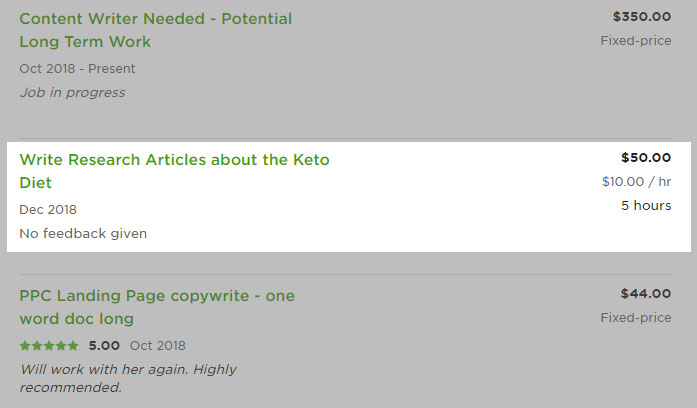
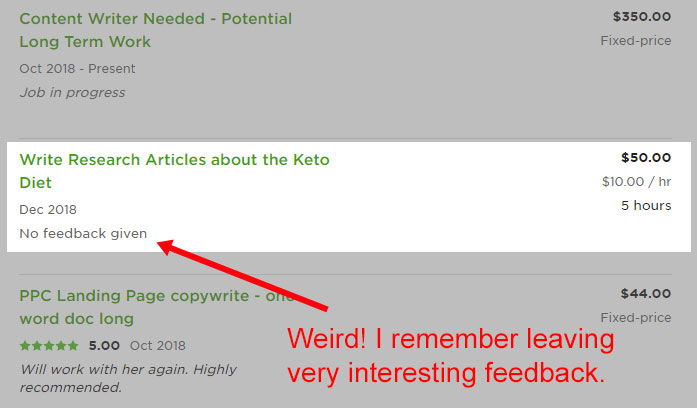
Update

diff --git a/_posts/2018-12-11-upwork-scammer.md b/_posts/2018-12-11-upwork-scammer.md
@@ -11,83 +11,87 @@ sidebar:
 classes: wide
 ---
 
-For years, I've hired freelancers through a marketplace called Upwork. I used the site to find cartoonists, software developers, editors, and virtual assistants. Some were great, some were disastrous, but I'd never had someone who was outright trying to scam me.
+For years, I've hired freelancers through a site called Upwork. The site attracts all kinds of freelancers, so I've used it to find evertyhing from [cartoonists](https://mtlynch.io/how-to-hire-a-cartoonist/) to software developers to [copy editors](https://mtlynch.io/editor/). Some were great, some were disastrous, but none of them had ever tried to scam me outright.
 
 That is, until I met Lizzie.
 
 {% include image.html file="lizzie-r-profile.png" alt="Screenshot of Lizzie R's Upwork profile page" max_width="450px" img_link="true" fig_caption="Lizzie's freelancer profile on Upwork" %}
 
-I needed writers for [a nutrition website](https://isitketo.org) I'm working on. Lizzie seemed like a potential match. She was a young American writer &mdash; a native English speaker. Her [bio](https://www.upwork.com/o/profiles/users/_~019b8bbe4e49ebe61c/) was free of loud grammar errors, an alarmingly rare quality among freelance writers. And best of all, she only charged $10/hr.
+I needed writers for a [keto diet website](https://isitketo.org) I'm building. As a native English speaker living in the US, Lizzie seemed like a potential match.  [Her profile](https://www.upwork.com/o/profiles/users/_~019b8bbe4e49ebe61c/) was free of loud grammatical errors, an alarmingly rare quality among freelance writers. And best of all, she only charged $10/hr.
 
-Okay, I know what you're thinking: for $10/hr, she's *obviously* a scammer. Or, at the very least, a terrible writer. A mid-range writer on Upwork typically charges $30-60/hr.
+Okay, I know what you're thinking: for $10/hr, she's *obviously* a scammer. Or a terrible writer. Most writers on Upwork earn $30-60/hr, so why would anyone accept such a low rate?
 
-But that's part of the adventure of Upwork. Some of the best people I've worked with charged a suspiciously low rate because they wanted to build a good rating history. Lizzie had only worked a few jobs, but she had perfect reviews on all of them.
+But that's part of the adventure of Upwork. Some of the best people I've worked with charged a suspiciously low rate at first because they wanted to build a good rating history. Lizzie had only worked a few jobs, but she had perfect reviews on all of them.
 
 If she turned out to be talented, I'd have a great writer at a phenomenal price. If she was terrible, I'd at least get to see what $10/hr writing looked like.
 
 # Exchanging $50 for a blank document
 
-I offered Lizzie the job, and she accepted overnight. I assigned her three reports to write and gave her [instructions](https://docs.google.com/document/d/1Uy19xtf_PFW0LJ2Zj6cSkH2dhHED8PCjHCtup1_IQ_4/edit?usp=sharing) on how to write them. I linked her to a Google Doc where she could write the reports.
+Upon receiving my job offer, Lizzie readily accepted. I assigned her three reports and provided [instructions](https://docs.google.com/document/d/1Uy19xtf_PFW0LJ2Zj6cSkH2dhHED8PCjHCtup1_IQ_4/edit?usp=sharing) on how to write them.
 
-I set a limit of five hours and told her that if she wasn't done with the three reports at the 4.5 hour mark, she should spend the last 30 minutes putting all of her progress in our shared Google Doc.
+I set a limit of five hours and told her that if she wasn't done at the 4.5 hour mark, she should spend the last 30 minutes putting all of her progress in our shared Google Doc.
 
-The next day, I saw that Lizzie billed me the full five hours but the Google Doc I gave her was empty. She hadn't sent me any messages, either.
+The next day, Upwork showed that Lizzie billed me the full five hours, but the Google Doc was empty. She hadn't sent me any messages, either.
 
 # Intrusive surveillance to the rescue
 
-When I checked Lizzie's timesheet, I realized that Lizzie had logged her hours using Work Diary, Upwork's official spyware tool. It records the freelancer's screen, records their keystrokes, and sends all the information to both Upwork and the client.
+Checking Lizzie's timesheet, I realized she had logged her hours using Work Diary, Upwork's official spyware tool. It captures images of the freelancer's screen, records their keystrokes, and sends all the information to both Upwork and the client.
 
-I find this tool extremely creepy, so I never require freelancers to use it, but Lizzie had elected to use it. This meant that I didn't have the work I paid for, but I did have screenshots showing what Lizzie was doing in the five hours she was supposedly working for me.
+Work Diary creeps me out. I never require freelancers to run it, but Lizzie chose to run it instead of simply invoicing me for her hours. This meant that I didn't have any output for the hours Lizzie billed me, but I did have screenshots showing how she spent those five hours.
 
 {% include image.html file="workdiary-dashboard.png" alt="Screenshot of Work Diary dashboard" max_width="800px" class="img-border" img_link="true" fig_caption="Overview of Lizzie's activities in Work Diary" %}
 
-I checked one of the screenshots from when she began billing to me:
+In early screenshots, she was writing a document about mantras in Hinduism. It definitely had nothing to do with my project, but she was billing the work to me.
 
-{% include image.html file="workdiary-2.jpg" alt="Screenshot of Lizzie R's WorkDiary history" max_width="800px" img_link="true" fig_caption="First Work Diary screenshot" %}
+{% assign fig_caption = 'Lizzie bills me work for time writing an article on mantras for another client' %}
 
-It was a document about mantras in Hinduism. It definitely had nothing to do with my project, but she was billing the work to me.
+{% include image.html file="workdiary-2.jpg" alt="Screenshot of Lizzie R's WorkDiary history" max_width="800px" img_link="true" fig_caption=fig_caption %}
 
-Later, she switched gears and started writing an article about tarot cards:
+Later, she switched gears and started writing an article about tarot cards. Unless there's a new trend in the keto world that integrates tarot readings into food selection, this didn't seem like it related to my project either.
 
-{% include image.html file="workdiary-4.jpg" alt="Screenshot of Lizzie R's WorkDiary history" max_width="800px" img_link="true" fig_caption="First Work Diary screenshot" %}
-
-Unless there's a new trend in the keto diet that requires reading tarot cards, this didn't seem like it was related to my project either.
+{% include image.html file="workdiary-4.jpg" alt="Screenshot of Lizzie R's WorkDiary history" max_width="800px" img_link="true" fig_caption="Lizzie bills me for another client's article about tarot cards" %}
 
 # What's going on here?
 
-The plot thickened when one screenshot showed Lizzie using Upwork's messaging interface to talk to her other clients:
+The plot thickened as a screenshot showed Lizzie using Upwork's messaging interface to talk to her other clients:
 
-{% include image.html file="workdiary-5.jpg" alt="Screenshot of Lizzie R's WorkDiary history" max_width="800px" img_link="true" fig_caption="First Work Diary screenshot" %}
+{% include image.html file="workdiary-5.jpg" alt="Screenshot of Lizzie R's WorkDiary history" max_width="800px" img_link="true" fig_caption="A screenshot showing Lizzie messaging her other clients" %}
 
-It  confused me at first because it showed two people talking but neither of them was Lizzie. Then, I realized she was logged in as a separate Upwork user with the name Abi Hensley.
+It  confused me at first because it showed two people talking, but neither of them was Lizzie. Oh! She was logged in as a different Upwork user under the name, "Abi Hensley."
 
-I searched the name on Upwork and found [Abi's profile](https://www.upwork.com/o/profiles/users/_~012951f3927669080e). Sure enough, it had the exact same profile text and hourly rate as Lizzie:
+A quick search on Upwork turned up [Abi's profile](https://www.upwork.com/o/profiles/users/_~012951f3927669080e). Sure enough, it had the exact same text and hourly rate as Lizzie:
 
 {% include image.html file="abi-h-profile.png" alt="Screenshot of Abi H's Upwork profile" max_width="715px" img_link="true" fig_caption="Upwork profile for &quot;Abi H.&quot; with identical text to &quot;Lizzie R.&quot;" %}
 
-That explained why she had four different web browsers pinned to her taskbar. She probably used a separate browser for each of her Upwork identities.
+That explained why she had four different web browsers pinned to her taskbar. She probably used a separate browser for each Upwork identity.
 
 {% include image.html file="many-browsers.jpg" alt="Screenshot of Lizzie's desktop showing Firefox, Chrome, IE, and Opera" max_width="800px" class="img-border" img_link="true" fig_caption="Screenshot of Lizzie's desktop showing four different web browsers installed" %}
 
 # Who is Grace?
 
-One of the screenshots shows Lizzie's Documents folder:
+One of the screenshots showed Lizzie's Documents folder:
 
-{% include image.html file="workdiary-6.jpg" alt="Screenshot of Lizzie R's WorkDiary history" max_width="800px" img_link="true" fig_caption="First Work Diary screenshot" %}
+{% include image.html file="workdiary-6.jpg" alt="Screenshot of Lizzi's documents folder" max_width="800px" class="img-border" img_link="true" fig_caption="Work Diary screenshot reveals contents of Lizzie's Documents folder" %}
 
-It shows several files with the name "Grace" in the title: "Grace Application Letter", "Grace CV", "Grace Intenship[sic] letter." There was a PDF whose filename was Grace followed by what looked like a last name. It was a unique enough last name that when I Googled the full name, there was only a single result: a Facebook profile:
+It revealed several files with the name "Grace" in the title: 
+
+* "Grace Application Letter"
+* "Grace CV"
+* "Grace Intenship[sic] letter"
+
+Finally, there was a PDF whose filename was "Grace" followed by what looked like a last name. The full name was unique enough that Google had only a single matching result: a Facebook profile:
 
 {% include image.html file="grace-facebook.png" alt="Screenshot of Lizzie R's WorkDiary history" max_width="504px" img_link="true" fig_caption="Lizzie's true identity, potentially" %}
 
-That's not very conclusive. She freelances, so maybe those are someone else's files. Or it's a profile for someone else who happens to have the same name.
-
 # It's 9 PM. Do you know where you are?
 
-I realized there was another hint in the screenshots. Upwork showed this screenshot at 6:15 PM Greenwich Mean Time but the freelancer's screen showed that it was 9:17 PM.
+There was another subtle clue buried in the screenshots: the time zone.
 
-{% include image.html file="time-comparison.jpg" alt="Screenshot of Abi H's Upwork profile" max_width="715px" img_link="true" fig_caption="Upwork profile for &quot;Abi H.&quot;, with identical text to &quot;Lizzie R.&quot;" %}
+Upwork captured this image at 6:15 PM Greenwich Mean Time, but the freelancer's clock showed 9:17 PM.
 
-What time zone could that be? Perhaps, Kenya. Sure enough...
+{% include image.html file="time-comparison.jpg" alt="Screenshot of Lizzie's desktop" max_width="715px" img_link="true" fig_caption="Lizzie's clock is three hours ahead of Greenwich Mean Time" %}
+
+What time zone could that be? Sure enough, it was the time zone for Nairobi, Kenya:
 
 {% include image.html file="utc-to-nairobi.png" alt="6:15 PM UTC matching 9:15 PM in Nairobi, Kenya" max_width="758px" img_link="true" %}
 
@@ -95,36 +99,36 @@ Not to sound like a [birther](https://en.wikipedia.org/wiki/Barack_Obama_citizen
 
 # What about that profile?
 
-How did she write her profile so well? I Googled the text and realized she stitched together the content from two different Australian writers. One was [a profile on LinkedIn](https://www.linkedin.com/in/laraflanagan/). She stole the other one from [another freelancer](https://www.upwork.com/o/profiles/users/_~017434da88fc78860a/) right from Upwork.
+A few Google searches showed that Lizzie had plagiarized her profile &mdash; it was a mashup of a [LinkedIn profile](https://www.linkedin.com/in/laraflanagan/) and another [profile right from Upwork](https://www.upwork.com/o/profiles/users/_~017434da88fc78860a/).
 
-{% include image.html file="profile-stitching.png" alt="Screenshot of demo app landing page" max_width="800px" class="img-border" img_link="true" fig_caption="" %}
+{% include image.html file="profile-stitching.png" alt="Screenshot of demo app landing page" max_width="800px" class="img-border" img_link="true" fig_caption="Lizzie created her profile by stitching together two others" %}
 
 # Is this a trick?
 
-The scam seemed so bumbling and obvious that I feared I was falling for a more complex trick.
+The scam seemed so clumsy and obvious that I feared it was step one of a more elaborate con. Why upload screenshots proving she didn't do the work when she could have just sent me a regular invoice for $50? And then why bill me and withhold the reports? Naturally, that would prompt me to check the screenshot history.
 
-In movies, the con-man always lets their victim *think* that they've uncovered the fraud. In truth, the victim successfully exposing the dummy fraud is all part of the *actual* fraud. The victim walks right into it because they think they've gained the upper hand.
+In movies, the con-man always lets their victim *think* that they've uncovered the fraud, but letting the victim expose the dummy fraud is all part of the *actual* fraud. Then, just as they think they've gained the upper hand, the victim falls face-first into the real scam. Was there another layer of deceit here?
 
 {% assign fig_caption = '"' | append: "I've locked Danny Ocean in a room next to my vault and paid his friend to guard him. Now he can *never* heist me!" | append: '"' | markdownify | remove: "<p>" | remove: "</p>" %}
 
 {% include image.html file="oceans-eleven.jpg" alt="Screenshot of demo app landing page" max_width="800px" fig_caption=fig_caption img_link="true" %}
 
-Was Lizzie trying to get caught so that she could trick me at another level? Why upload screenshots proving she didn't do the work when she could have just sent me a regular invoice for $50? And then why bill me and give me zero results? If she had just sent me the reports, I would have never checked the screenshots.
-
 # How did Upwork miss this?
 
-Upwork forces freelancers to install invasive spyware, yet it ignores many signals that should have been be huge red flags:
+It struck me that Upwork forces freelancers to install invasive spyware, presumably to catch fraud, yet they ignored many huge indicators of fraud:
 
-* Two users are using the same computer and IP but claim to be in cities 2,000 miles apart.
-* Two users have exactly identical profiles.
-* A user plagiarized large sections their profile from a more established user on the same site.
-* Both users claim to live in the US but have their clocks set to Nairobi time and likely have Kenyan IP addresses.
+* Two freelancers used the same computer and IP while claiming to be in cities 2,000 miles apart.
+* Two freelancers had exactly identical profiles.
+* A freelancer plagiarized large sections of their profile from a more established user on the same site.
+* Both freelancers claim to live in the US but have their clocks set to Nairobi time and likely have Kenyan IP addresses.
 
 # Results, finally
 
-I closed the contract and reported the fraud to Upwork. 
+As soon as I saw the screenshots, I closed the contract and reported the fraud to Upwork. Lizzie saw the contract end but was not privy to any of my comments about her.
 
-Lizzie can't see the feedback immediately. All she knew was that I closed the contract. A day after I closed it, Lizzie messaged me asking what the issue was. She attached the work I had asked for as a Word document. Here's her report on whether Coca-Cola is compatible with the keto diet:
+The next day, Lizzie messaged me asking why I closed the contract. She made no mention of the unusual hours she billed me, but she attached a Word document containing the reports I had assigned to her.
+
+This was her report on whether Coca-Cola is compatible with the keto diet:
 
 >**Coca-Cola**
 >
@@ -135,10 +139,10 @@ Lizzie can't see the feedback immediately. All she knew was that I closed the co
 >***Detailed Description***
 >
 >According to the nutritional value of Coca Cola, it is not keto-friendly. It has 10.6 g of net carbs
-for every serving. In addition, it has no fat and protein content. Perhaps, you can consider other
+for every serving **[Ed: Actual net carb count is 39 g]**. In addition, it has no fat and protein content. Perhaps, you can consider other
 variations of Coca Cola like Coke Zero or the Diet Coke.
 
-The grammar was decent, but there are some dead giveaways that Lizzie was not a native English speaker, like the definite article before "Diet Coke." Americans never say, "I'd love a refreshing glass of **the** Diet Coke."
+The grammar was decent, but it further confirmed Lizzie was not a native speaker. The loudest giveaway was the definite article before "Diet Coke." Americans never say, "I'd love a refreshing glass of **the** Diet Coke."
 
 {% assign fig_caption = '"' | append: "Three glasses of the Diet Coke, please." | append: '"' | markdownify | remove: "<p>" | remove: "</p>" %}
 
@@ -146,39 +150,53 @@ The grammar was decent, but there are some dead giveaways that Lizzie was not a 
 
 # How Upwork handles fraud
 
-Two days later, Upwork customer support responded:
+Two days after I reported Lizzie's account as fraudulent, Upwork closed my support ticket with this note:
 
 >Based on your report, I have examined the account and taken action as defined in our Terms of Service. In order to protect the confidentiality of all of our members’ accounts, I won’t be able to report back with the outcome of our investigation.
 
-I disputed the hours, so Upwork refunded me the $50 that she tried to bill me.
+Won't be able to report the outcome? I expected them to close all of Lizzie's fake accounts, an outcome that should be highly visible to me.
 
-It has been two weeks since I reported the fraud. The profiles went private a few days after I reported the issue, but Upwork still shows both profiles as active and accepting job offers:
+It has now been three weeks since I reported Lizzie to Upwork. The profiles went private a few days after my report, but Upwork still shows them as active and accepting job offers:
 
 * [Lizzie Ruprecht](https://www.upwork.com/o/profiles/users/_~019b8bbe4e49ebe61c/)
 * [Abi Hensley](https://www.upwork.com/o/profiles/users/_~012951f3927669080e)
 
-In my post-job feedback, I called out the profile as fraudulent. I kept it objective and factual, but I said that Work Diary revealed billing for unrelated work and multiple Upwork profiles. Curiously, Upwork displays my review as "No feedback given":
+They did refund my $50, which was nice.
 
-{% include image.html file="lizzie-feedback.jpg" alt="Upwork shows I left no feedback for Lizzie" max_width="697px" img_link="true" fig_caption="Upwork does not display my comments about Lizzie's fraudulent account in her Upwork profile." %}
+# Why isn't my feedback showing up?
 
-I contacted one of Lizzie's other clients. He had hired "Abi" to write sales copy on his company's website. He told me that he appreciated me warning him about the fraud &mdash; Upwork never did.
+In my post-job feedback for Lizzie, I called out her profile as fraudulent. I was careful to avoid any accusations based on speculation. My review focused on objective facts: Lizzie billed me for unrelated work and her Work Diary revealed that she was operating duplicate Upwork profiles.
+
+Curiously, Upwork translated this into, "No feedback given":
+
+{% include image.html file="lizzie-feedback.jpg" alt="Upwork shows I left no feedback for Lizzie" max_width="697px" img_link="true" fig_caption="Upwork hides my comments about Lizzie's fraudulent account in her Upwork profile." %}
+
+# Warning other clients
+
+The day I discovered Lizzie's shenanigans, I contacted one of her other clients. He had hired Lizzie through her "Abi" profile to write sales copy. He responded to say that he was still awaiting work from her but followed up with me a few days later to say he terminated her contract as well.
+
+Tellingly, Upwork never notified this client of the fraud even though they had "examined the account and taken action" while he still had an open contract with Lizzie/Abi.
 
 # Upwork's cross-contamination problem
 
-If you raised an eyebrow about me contacting another of Lizzie's clients, that's because I shouldn't be able to do it. A freelancer's client list is private on Upwork, but Lizzie bled enough information into her Work Diary screenshots that I could find one of her other clients.
+Upwork client lists are private, so I normally shouldn't be able to contact one of my freelancer's other clients. But Lizzie bled enough information into her screenshots that I found contact information for the guy who hired her for sales copy.
 
-This leads to another interesting problem with Upwork's Work Diary feature: cross-contamination.
+This brings up another interesting problem with Upwork's Work Diary feature: cross-contamination.
 
-What if a freelancer applied to work for you and ended their cover letter included this note:
+What if a freelancer applied to work for you and ended their cover letter with this note:
 
->By the way, I routinely run software that sends captures of my entire screen to undisclosed third-parties. Hope that doesn't bother you!
+>By the way, I routinely run software that sends captures of my entire screen to undisclosed third-parties. Hope you're cool with that!
 
-You'd probably reject this candidate immediately. But that's what every Upwork user says implicitly if they use Work Diary to track their time.
+You'd probably reject this candidate immediately. But that's what every Upwork user says implicitly if they track their time with Work Diary.
 
-As the client, there's nothing you can do to prevent this. You can allow the freelancer to enter their hours manually, but this risk still exists if .
+As the client, there's nothing you can do to prevent this. Clients can either require their freelancers to use Work Diary or make it optional, but there's no option to forbid it. Even if you could, other clients can still require it.
+
+If a freelancer you hired ever happens to check messages from you while billing for another client or leave open a window containing your work, Work Diary will leak your private information to several additional parties. These kinds of leaks are unavoidable with automatic, whole-screen captures.
 
 # Final thoughts
 
-I'll continue to use Upwork. I think it's the worst freelancing platform, except for all the other freelancing platforms. I'll certainly think twice before sending sensitive information to anyone who takes hourly contracts on Upwork.
+This expeience has shown me some of Upwork's warts. On one hand, they missed many red flags that I expect them to catch and did little to prevent continued abuse. On the other hand, it does say something that this is the first time I've hired a fraudster in all my years hiring through Upwork.
+
+While I've never been in love with Upwork, my experience has been even worse on alternatives like Fiverr or Freelancer.com. I'll continue using Upwork, but this experience has given me another reason to be conservative about granting freelancers access to private data.
 
 {% include ads.html title="isitketo_writers" %}
